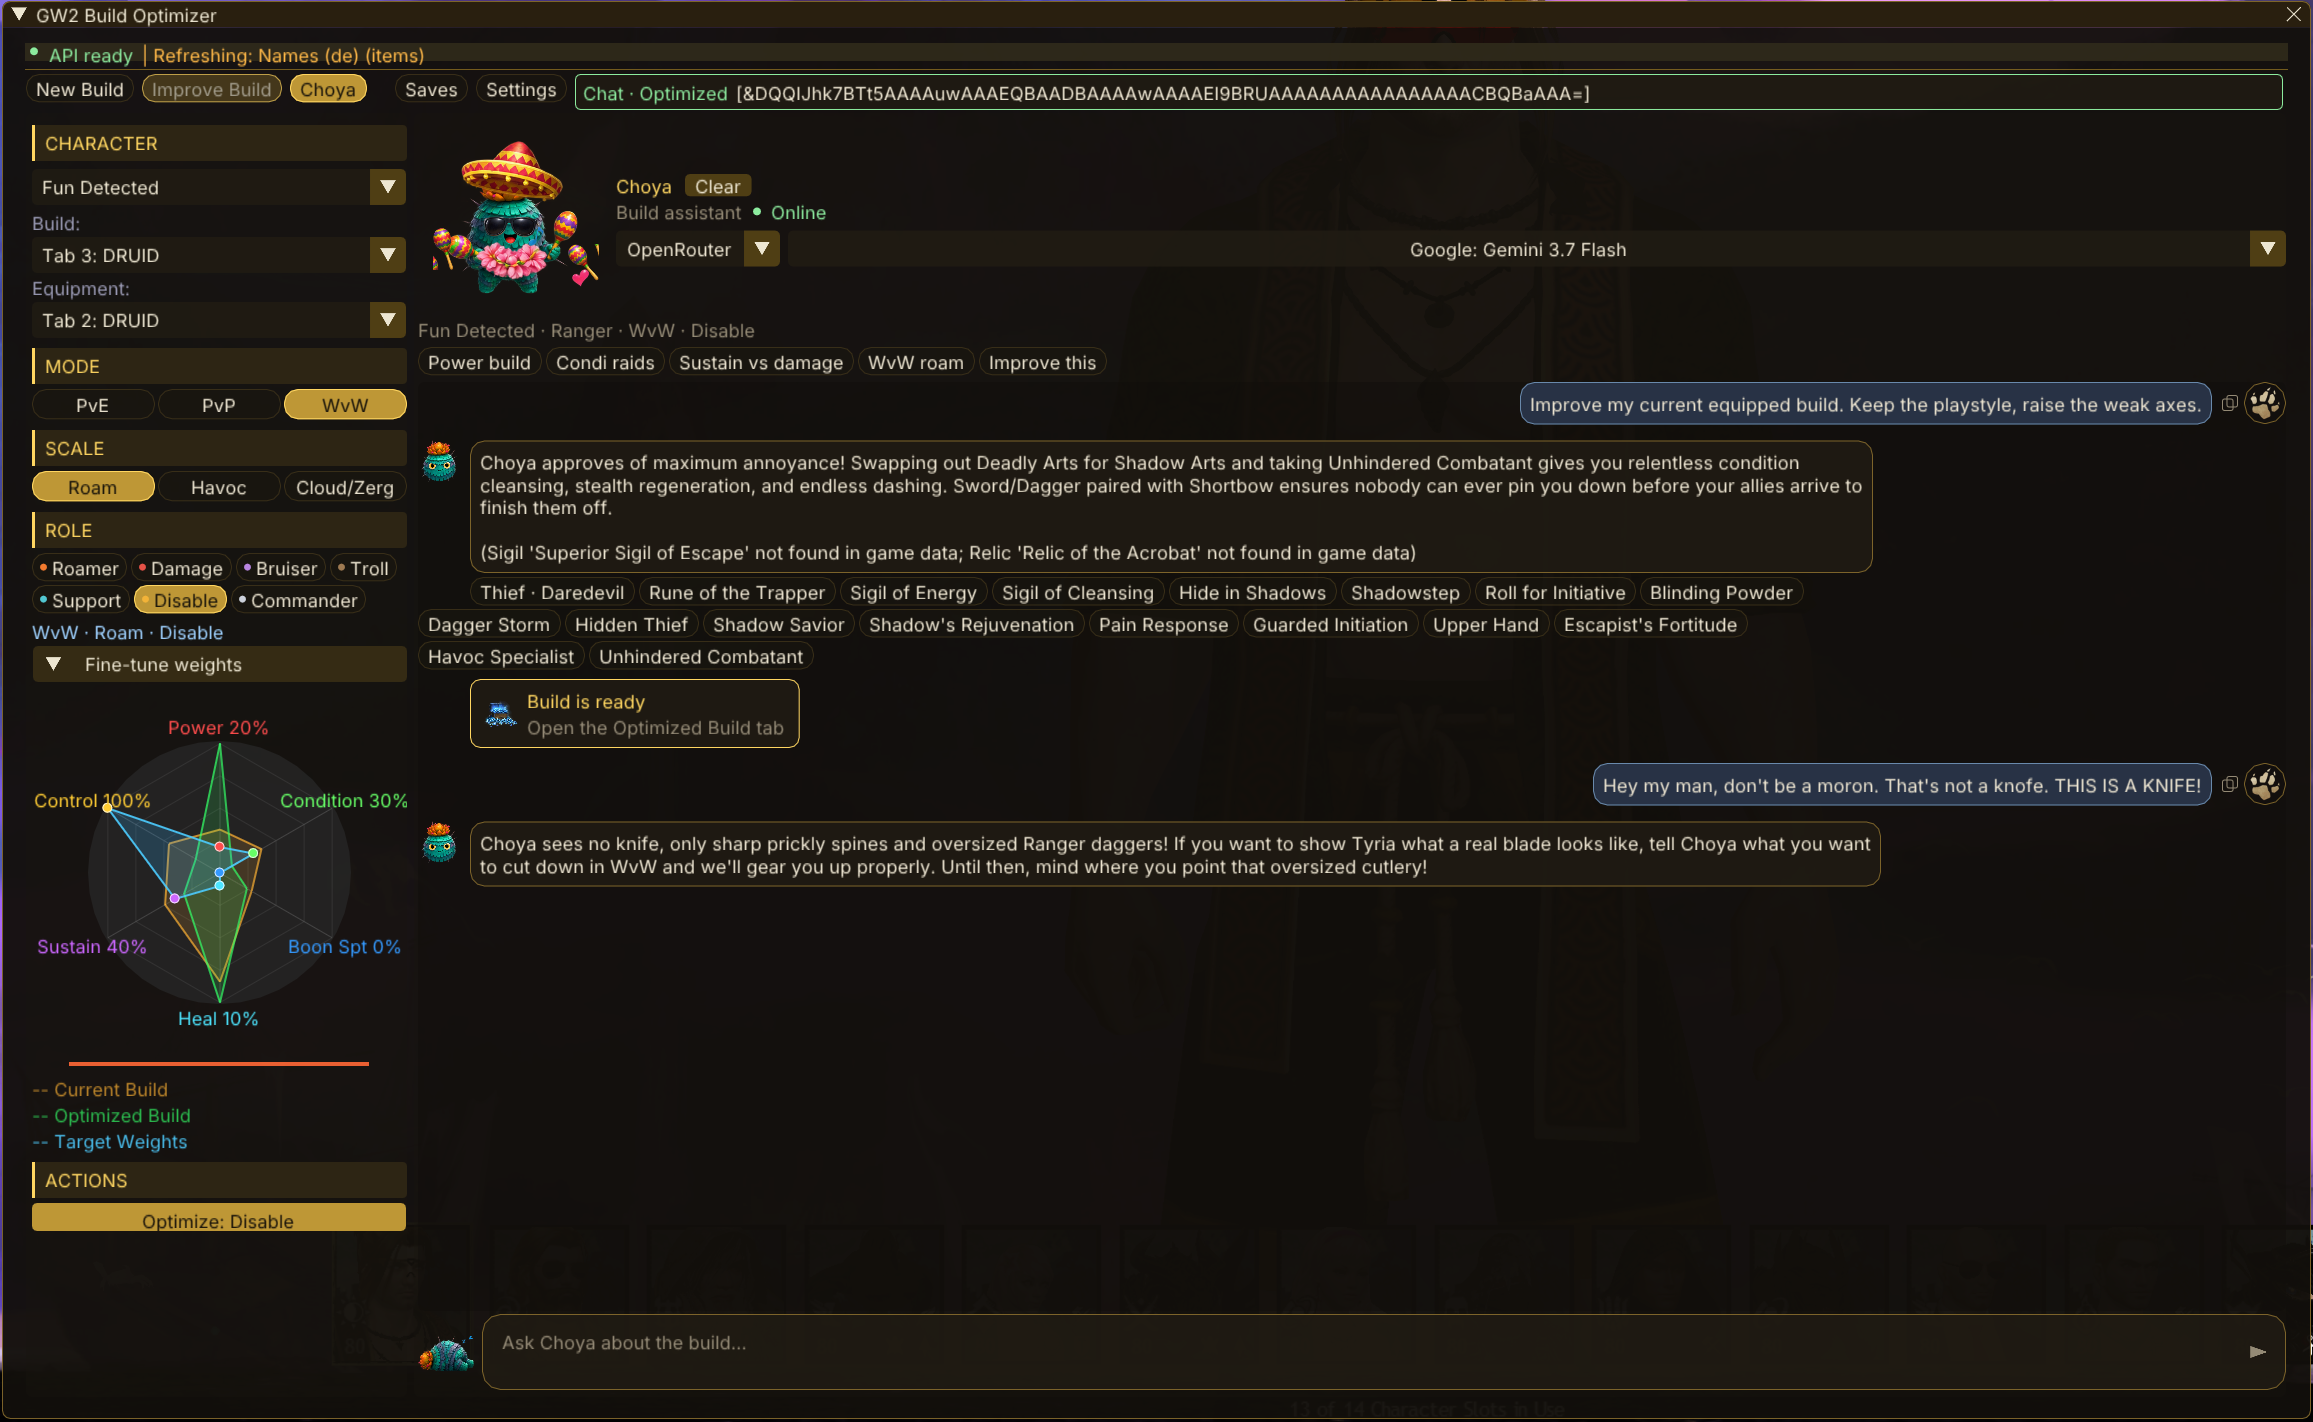
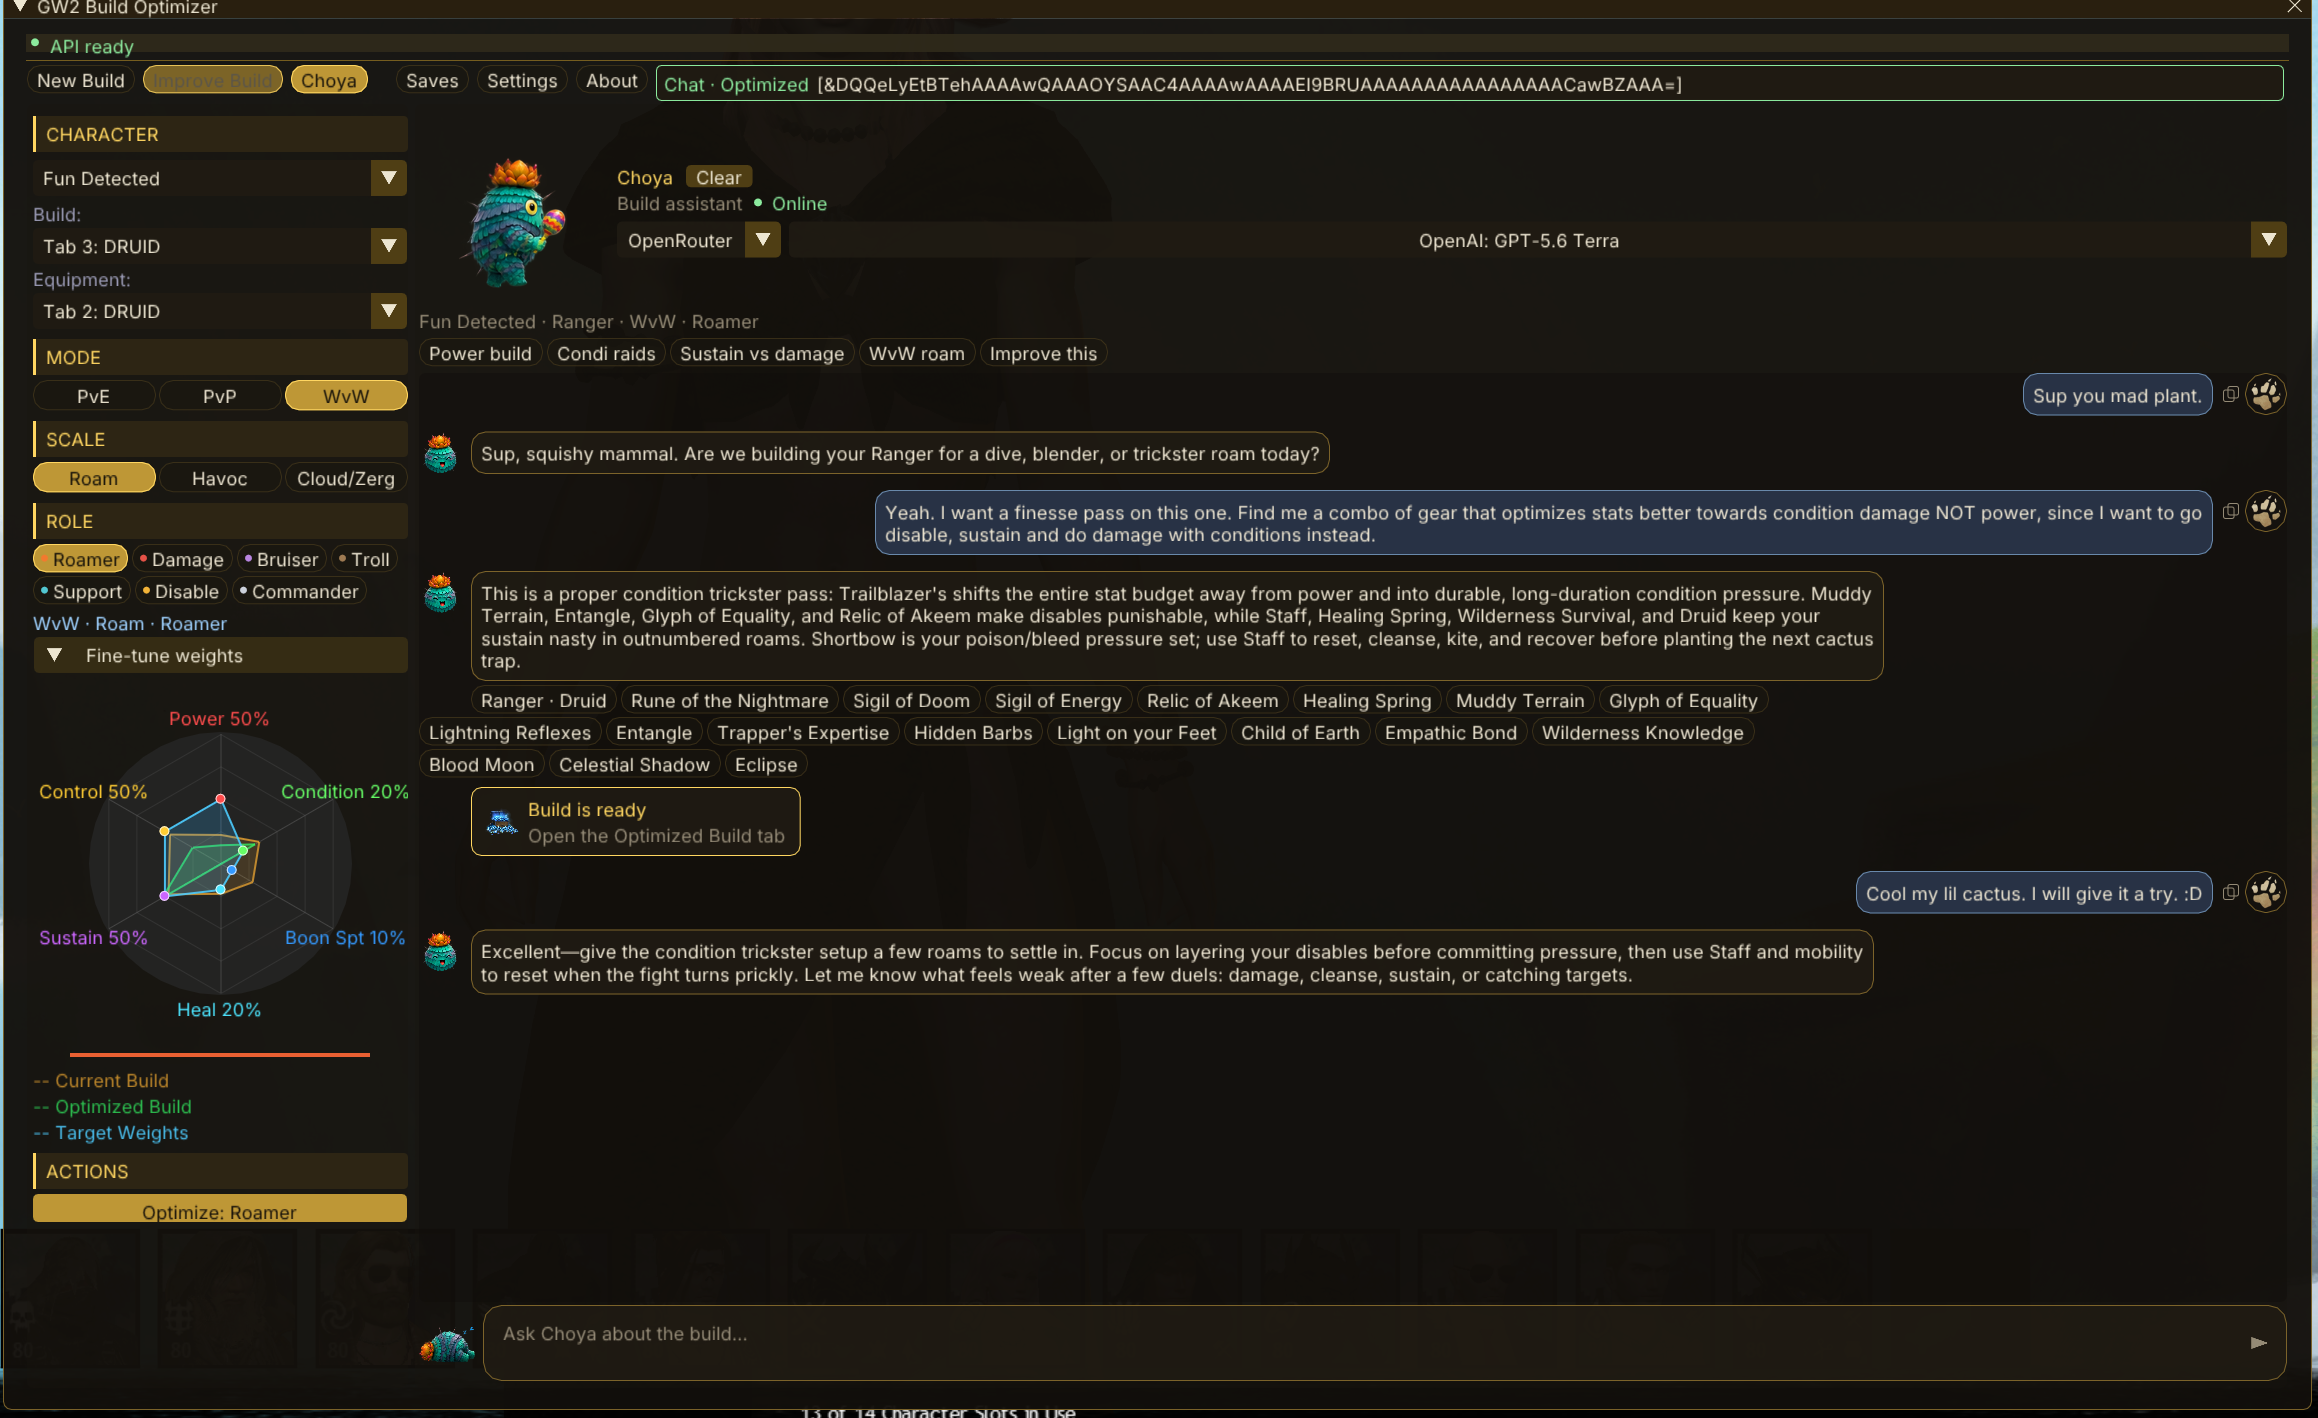
docs: refresh overlay screenshots for v1.7.19
Replace Improve, Stats, Settings, and Choya stills. Add first-time game data, News, and About/mailbag.

Changed region(s): [[0.0, 0.0, 1.0, 1.0], [0.5914, 0.1551, 0.716, 0.1862], [0.1868, 0.9309, 0.3113, 0.9619]]

diff --git a/README.md b/README.md
@@ -25,11 +25,22 @@ then let the optimizer search for a stronger version around those constraints.
 
 ![Improve Build view](docs/screenshots/improve.png)
 
-**Settings** configures the AI provider and model, interface language and scale,
-and local game-data cache. The refresh panel shows live download progress, while
-benchmark sync supplies additional build knowledge.
+**Settings** configures the AI provider and model, overlay language and scale,
+News sources, benchmark sync, and the local game-data cache.
 
 ![Settings view](docs/screenshots/settings.png)
+
+**First-time game data** downloads the catalog (items, skills, pets, official
+names). The wait is filled with official Guild Wars 2 news: read an article,
+open it in the browser, or copy the link.
+
+![Game-data download](docs/screenshots/loading.png)
+
+**News** (Tyria Dispatch) lists official RSS, patch notes, forums, GuildJen, and
+ArenaNet YouTube. Compact, Card, or Detail; stills on or off. YouTube is a
+thumbnail — **Open in browser** to watch.
+
+![News desk](docs/screenshots/news.png)
 
 **Stats** compares Current and Optimized passive Hero-panel attributes and
 defenses using profession, armor weight, gear, upgrades, traits, and the selected
@@ -48,6 +59,11 @@ to the selected build; it parses the response into a plated build, flags names
 it cannot resolve in game data, and can open the result directly in Improve.
 
 ![Choya build assistant](docs/screenshots/ai_choya.png)
+
+**About** is Choya's mailbag: message the developer, report a bug, or send a
+fistbump. Replies land under Messages.
+
+![About / mailbag](docs/screenshots/about.png)
 
 ## Download
 
